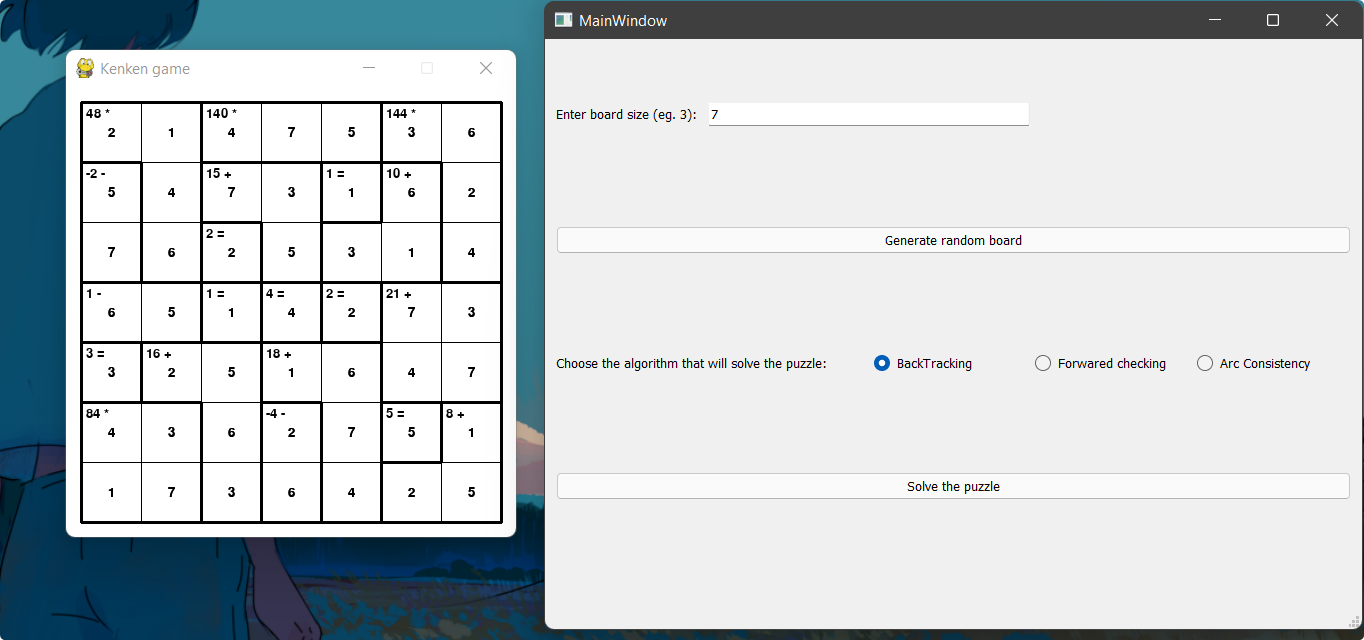
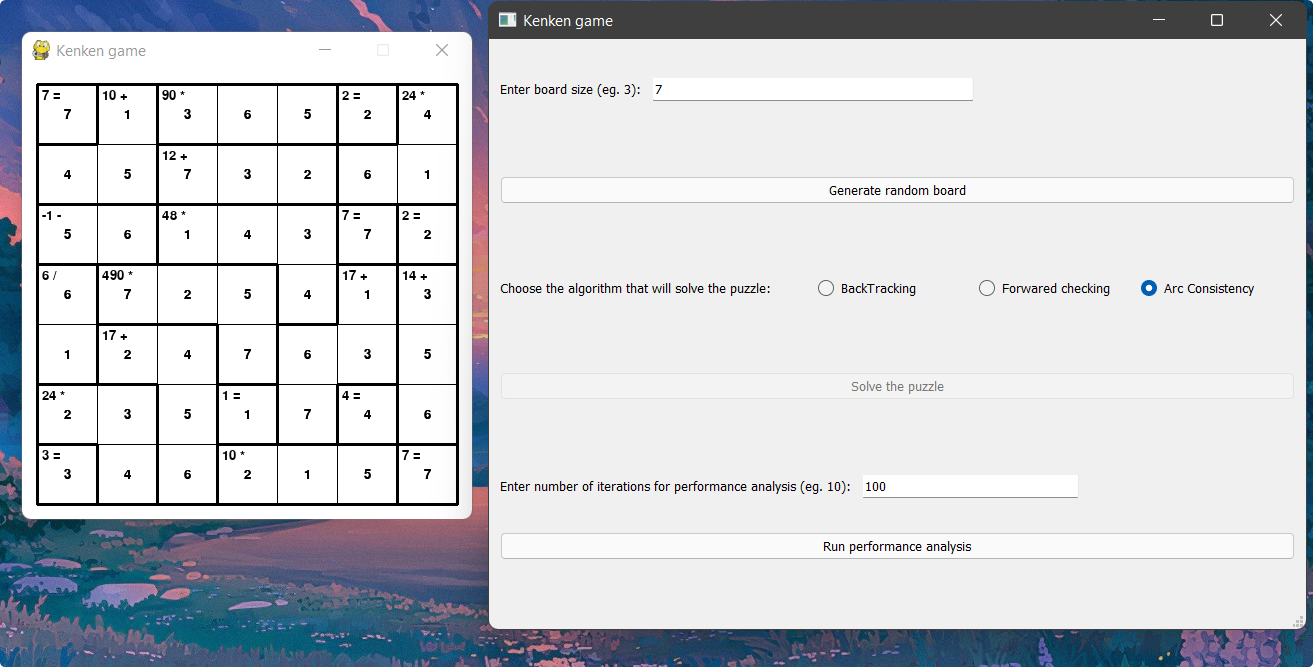
added a new ui demo

diff --git a/README.md b/README.md
@@ -37,11 +37,7 @@ Generate a random puzzle of any size and then select algorithm to solve the puzz
 ## Performance analysis
 
 To generate a csv file with performance analysis
-Determine the number of random puzzle iterations on each algorithm in iterations parameter for performance_analysis function in kenken.py file.
-
-```bash
-python3 kenken.py
-```
+Determine the number of random puzzle iterations on each algorithm.
 
 ![performance analysis](https://github.com/ZiadAlMoqamar/kenken-game/blob/main/demo/performance_analysis.gif?raw=true)
 
